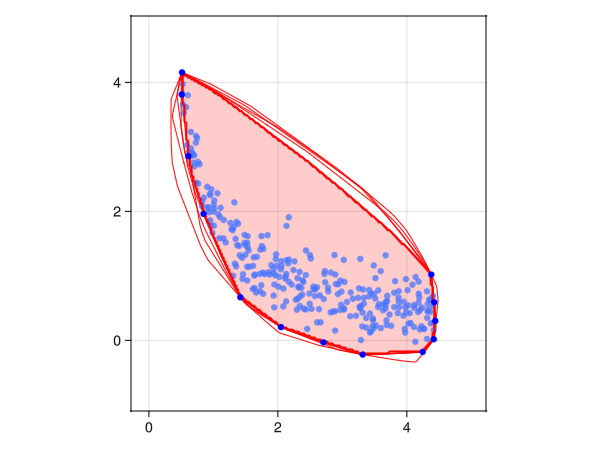
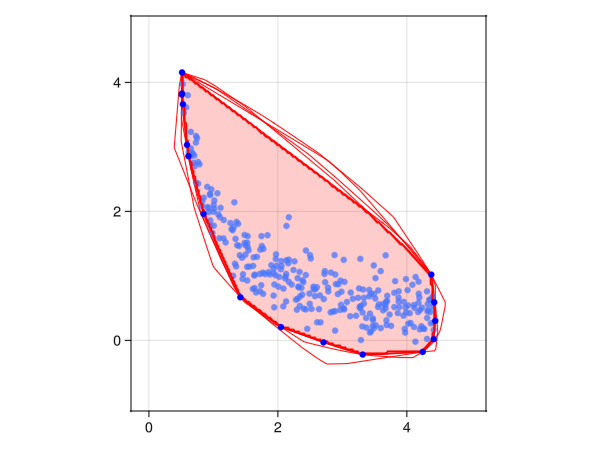
Fix some minor bugs.

diff --git a/README.md b/README.md
@@ -106,7 +106,7 @@ using GLMakie
 num_batch = 3
 Kernels_inbat = group_kernels(Kernels, num_batch; mode="randomly")
 model = pmap(
-    ks -> mklocsvmtrain(ks, X; algorithm=algor, ν=0.01/num_batch, μ=0.5/num_batch), 
+    ks -> mklocsvmtrain(ks, X; algorithm=algor, ν=0.01/num_batch, μ=0.5), 
     Kernels_inbat
 )
 mklocsvmplot(model; backend=GLMakie)
